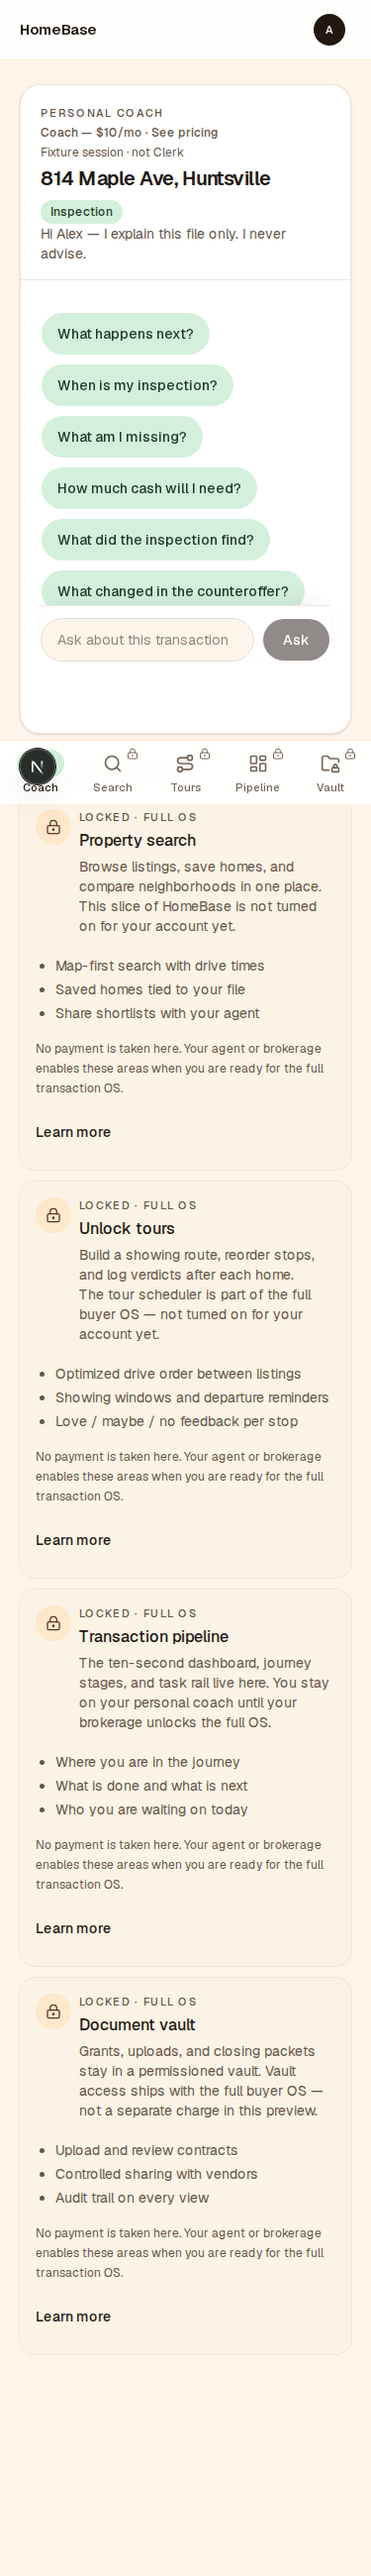
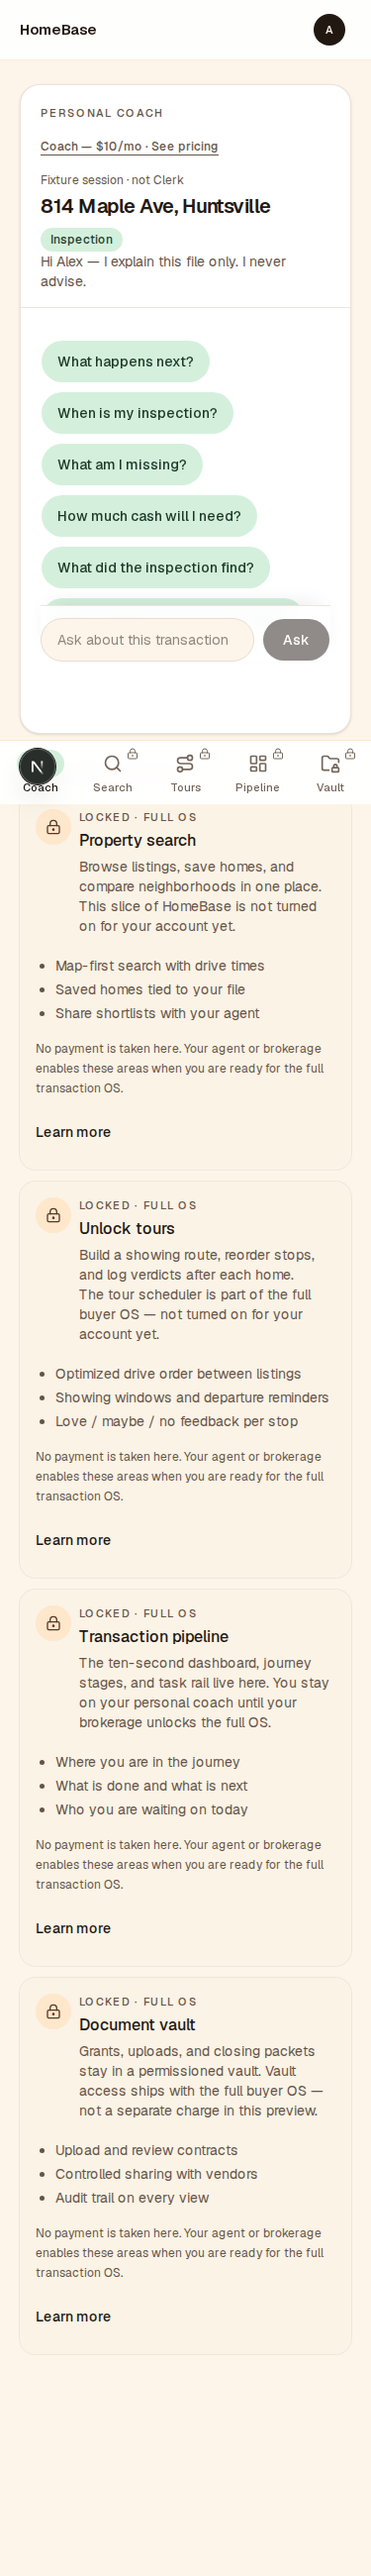
fix(coach): 44px tap target on coach-pricing-link
Apply pack textLinkClassName (min-h-11) to the See pricing header link
while keeping text-xs copy. Assert tap height in pricing e2e @375.

Changed region(s): [[0.088, 0.0311, 0.8213, 0.2491], [0.7333, 0.0934, 0.7627, 0.1246]]

diff --git a/src/components/coach-home.tsx b/src/components/coach-home.tsx
@@ -6,6 +6,7 @@ import {
 } from "@/components/buyer-locked-upsell";
 import type { ConciergeScope } from "@/components/concierge-sheet";
 import { BUYER_LOCKED_UPSELLS } from "@/lib/buyer-shell";
+import { textLinkClassName } from "@/components/text-link";
 import { COACH_ENTRY_PRICE_LABEL } from "@/lib/pricing";
 import { cn } from "@/lib/utils";
 
@@ -35,14 +36,17 @@ export function CoachHome({
           data-testid="concierge-scope"
           className="shrink-0 border-b border-border/70 px-5 pt-5 pb-4"
         >
-          <div className="flex flex-wrap items-baseline justify-between gap-x-3 gap-y-1">
+          <div className="flex flex-wrap items-center justify-between gap-x-3 gap-y-1">
             <p className="text-eyebrow font-medium tracking-[0.12em] text-muted-foreground uppercase">
               Personal coach
             </p>
             <Link
               href="/pricing"
               data-testid="coach-pricing-link"
-              className="text-xs font-medium text-muted-foreground underline-offset-4 hover:text-foreground hover:underline"
+              className={cn(
+                textLinkClassName,
+                "max-w-full text-xs font-medium text-muted-foreground hover:text-foreground",
+              )}
             >
               Coach — {COACH_ENTRY_PRICE_LABEL} · See pricing
             </Link>

diff --git a/e2e/pricing.spec.ts b/e2e/pricing.spec.ts
@@ -29,7 +29,12 @@ test("pricing CTA returns to coach without payment UI", async ({ page }) => {
   await page.getByRole("button", { name: "Sign in as Alex Rivera" }).click();
   await expect(page).toHaveURL(/\/coach$/);
 
-  await page.getByTestId("coach-pricing-link").click();
+  const pricingLink = page.getByTestId("coach-pricing-link");
+  const linkBox = await pricingLink.boundingBox();
+  expect(linkBox).not.toBeNull();
+  expect(linkBox!.height).toBeGreaterThanOrEqual(44);
+
+  await pricingLink.click();
   await expect(page).toHaveURL(/\/pricing$/);
   await expect(page.getByTestId("pricing-billing-disclaimer")).toContainText(
     /no payment/i,
